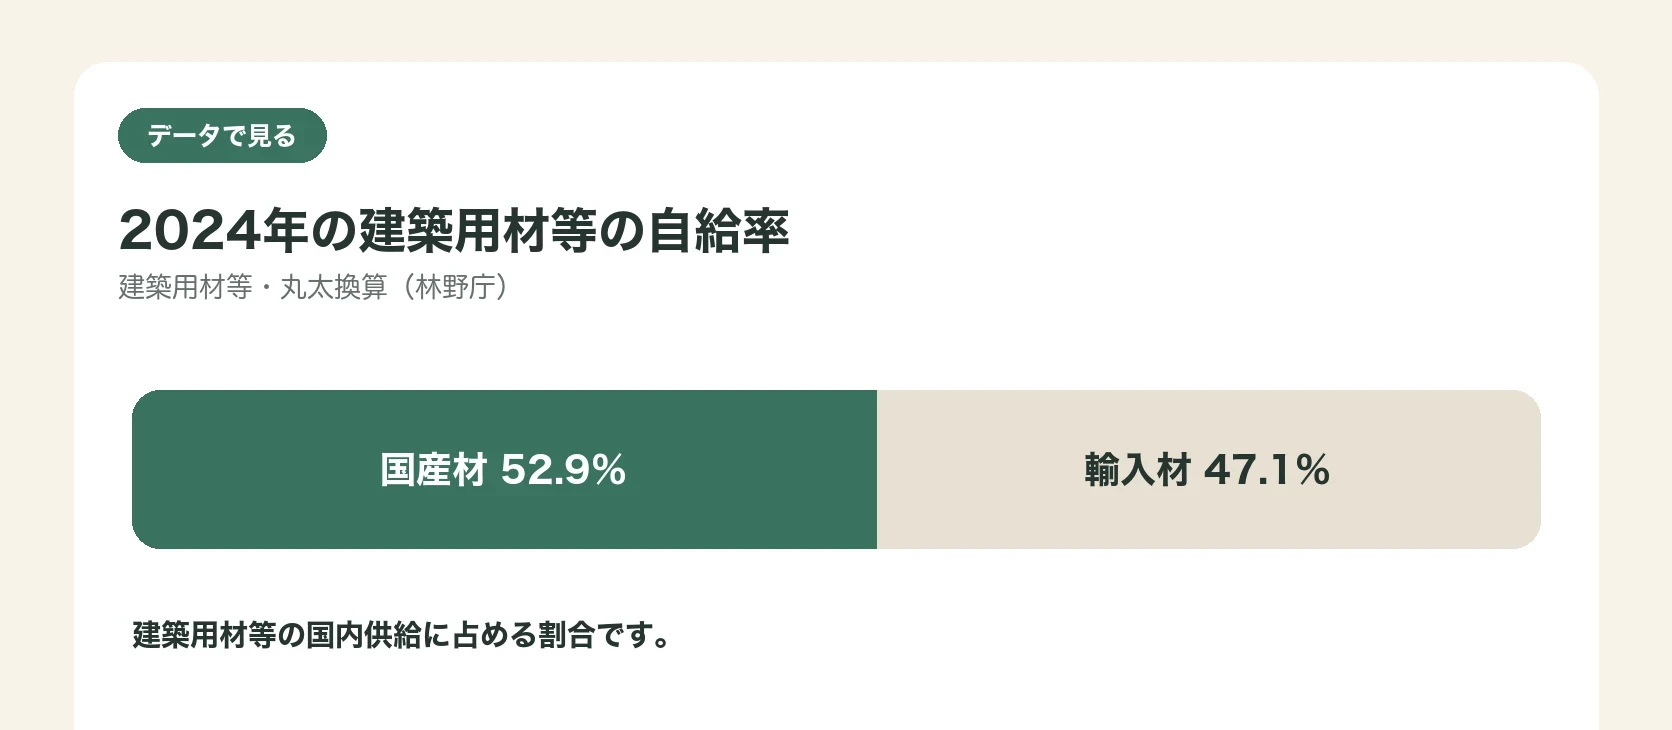
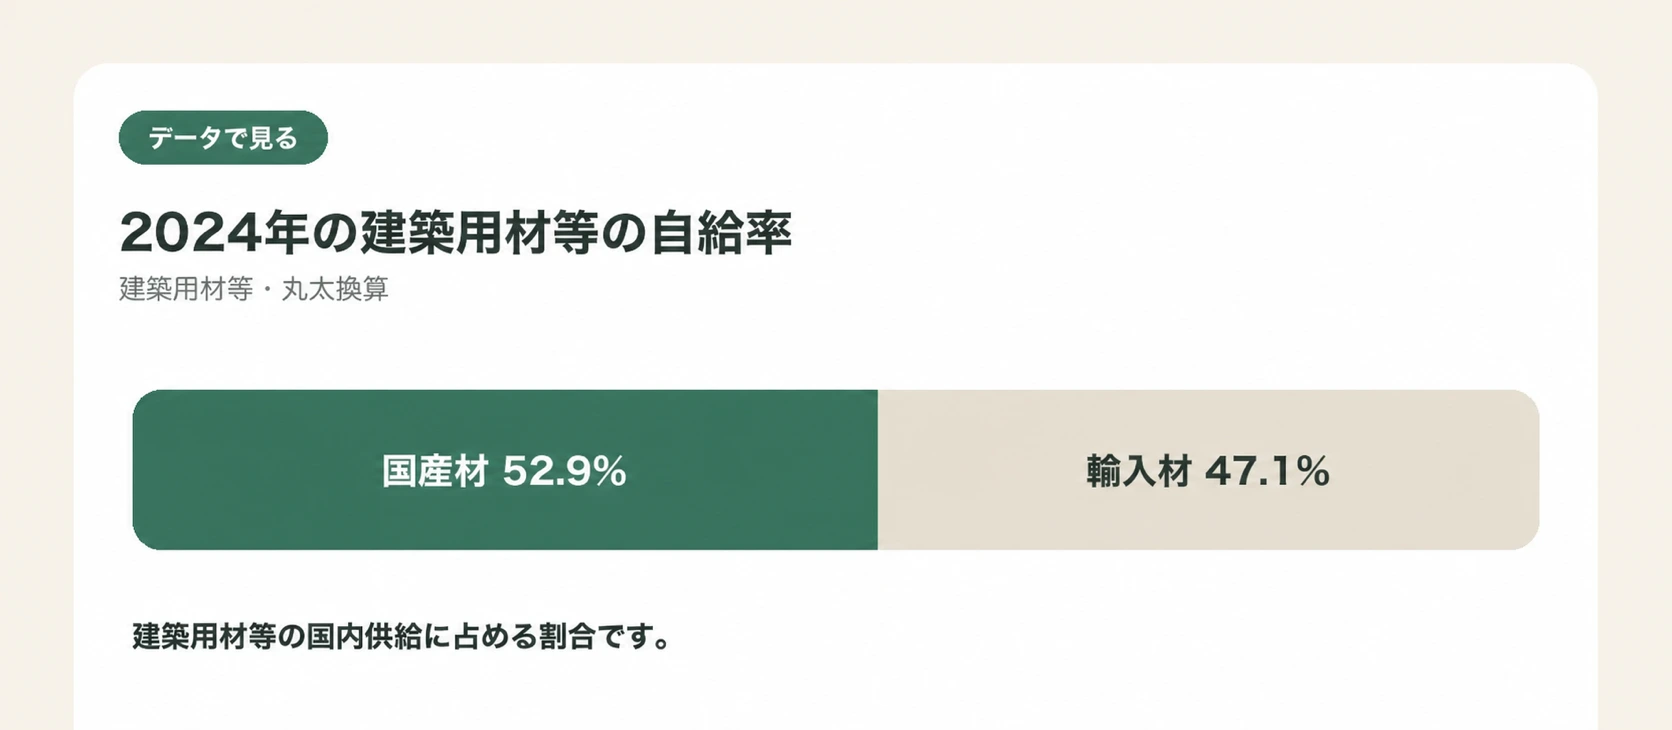
Fix remaining episode 13-18 office corrections

diff --git a/legacy/column-14.dc.html b/legacy/column-14.dc.html
@@ -377,7 +377,7 @@
 <li><strong>家の中で発生し伝わる音</strong>：足音や物を落とす音などの固体伝播音、テレビや会話などの空気伝播音。</li>
 <li><strong>設備から発生する音</strong>：エアコン、換気扇、給湯器などの稼働音。</li>
 </ul>
-<p>これらの音がどこから、どのように伝わるかを知ることは、対策を考えるうえでの出発点になります。建築音響の分野では、音の伝わり方や遮音の仕組みについて体系的に整理されており、専門書としては木村翔『建築音響と騒音防止計画』（彰国社、1977年）などが基礎的な知見をまとめています。</p>
+<p>これらの音がどこから、どのように伝わるかを知ることは、対策を考えるうえでの出発点になります。建築音響の分野では、音の伝わり方や遮音の仕組みについて体系的に整理されており、専門書としては木村翔さんの『建築音響と騒音防止計画』（彰国社、2012年）などが基礎的な知見をまとめています。</p>
 <p>ベターリビングのつくば建築試験研究センターには音響試験棟があり、壁・サッシ・ドア・換気口などの音響透過損失を測定する試験が行われています。音の悩みを考えるときは、製品名だけでなく、どの部位でどの性能を確かめるのかを見る視点も役立ちます。</p>
 </section>
 <image-slot id="ep14-body1" src="uploads/ep14_body01_sound_inventory_v2.webp" shape="rounded" radius="16" alt="家の中の音環境を見直す家族" placeholder="家の中の音環境を見直す家族" style="width:100%;aspect-ratio:16/9;margin:8px 0 36px;"></image-slot>
@@ -445,7 +445,7 @@
     <summary style="font-size:13.5px;color:oklch(0.5 0.015 90);">出典・参考資料を見る</summary>
 <ol style="font-size:12.5px;line-height:1.8;color:oklch(0.5 0.015 90);padding-left:20px;margin-top:10px;">
 <li>環境省「騒音に係る環境基準について」。<a href="https://www.env.go.jp/kijun/oto1-1.html">https://www.env.go.jp/kijun/oto1-1.html</a></li>
-<li>木村翔『建築音響と騒音防止計画』（彰国社、1977年）。建築音響の基礎、遮音構造に関する専門書。</li>
+<li>木村翔さんの『建築音響と騒音防止計画』（彰国社、2012年）。建築音響の基礎、遮音構造に関する専門書。</li>
 <li>JIS A 4706:2021「サッシ」（遮音性の等級）。規格番号は日本産業標準調査会のJIS検索で確認。<a href="https://www.jisc.go.jp/app/jis/general/GnrJISSearch.html">https://www.jisc.go.jp/app/jis/general/GnrJISSearch.html</a></li>
 <li>一般財団法人ベターリビング「つくば建築試験研究センター　試験施設案内」（音響透過損失等の試験例）。<a href="https://www.cbl.or.jp/tbtl/about/pdf/vol-20.pdf">https://www.cbl.or.jp/tbtl/about/pdf/vol-20.pdf</a></li>
 

diff --git a/legacy/column-18.dc.html b/legacy/column-18.dc.html
@@ -430,7 +430,7 @@
 <li>NPO法人日本トイレ研究所「トイレがあるところに人は集まる～熊本地震でのマンションにおけるトイレ対応～」。<a href="https://toilet-magazine.jp/disaster/4380">https://toilet-magazine.jp/disaster/4380</a></li>
 <li>内閣府（防災担当）「避難所におけるトイレの確保・管理ガイドライン」（令和6年12月改定）。<a href="https://www.bousai.go.jp/taisaku/hinanjo/pdf/2412hinanjo_toilet_guideline.pdf">https://www.bousai.go.jp/taisaku/hinanjo/pdf/2412hinanjo_toilet_guideline.pdf</a></li>
 <li>内閣府「災害時のトイレ、備えていますか？」（令和6年度 広報ぼうさい）。<a href="https://www.bousai.go.jp/kohou/kouhoubousai/r06/111/news_08.html">https://www.bousai.go.jp/kohou/kouhoubousai/r06/111/news_08.html</a></li>
-<li>加藤篤『トイレからはじめる防災ハンドブック 自宅でも避難所でも困らないための知識』（学芸出版社、2024年）。<a href="https://www.hanmoto.com/bd/isbn/9784761528782">https://www.hanmoto.com/bd/isbn/9784761528782</a></li>
+<li>加藤篤さんの『トイレからはじめる防災ハンドブック 自宅でも避難所でも困らないための知識』（学芸出版社、2024年）。<a href="https://www.hanmoto.com/bd/isbn/9784761528782">https://www.hanmoto.com/bd/isbn/9784761528782</a></li>
 </ol>
 <p>※本記事は一般的な防災情報の提供を目的としています。マンション等の集合住宅における排水管の被害確認方法など、個別の判断は管理組合や専門家にご確認ください。</p>
 </details>
@@ -448,7 +448,7 @@
     <div style="display:flex;flex-direction:column;gap:10px;font-size:14.5px;"><a href="column-01.dc.html">【第1回】家は資産か、負債か。暮らしから考える住まいの価値</a>
 <a href="column-02.dc.html">【第2回】片づかないのは、あなたのせいじゃない。収納と動線で変わる家</a>
 <a href="column-09.dc.html">【第9回】台風の前に、家族で決めておくこと。家の外・中・避難の備え</a>
-<a href="column-13.dc.html">【第13回】円安で、家はどう変わる？──住まいのコストと、これからできる備え</a></div>
+<a href="column-10.dc.html">【第10回】子どもが巣立ったあと、家はどう変える？──50代から考える夫婦の居場所</a></div>
   </section>
 
   <div style="display:flex;align-items:center;gap:16px;background:#fff;border:1px solid oklch(0.89 0.02 85);border-radius:16px;padding:22px;margin-bottom:36px;">

diff --git a/legacy/column-15.dc.html b/legacy/column-15.dc.html
@@ -439,7 +439,7 @@
 <ol style="font-size:12.5px;line-height:1.8;color:oklch(0.5 0.015 90);padding-left:20px;margin-top:10px;">
 <li>最高裁判所「令和7年 司法統計年報 家事編 第52表 遺産分割事件のうち認容・調停成立件数―遺産の内容別遺産の価額別―全家庭裁判所」（「分割をしない」を除く）。<a href="https://www.courts.go.jp/saikosai/vc-files/saikosai/toukei/toukei-pdf-16677.pdf">https://www.courts.go.jp/saikosai/vc-files/saikosai/toukei/toukei-pdf-16677.pdf</a></li>
 <li>国税庁「相続時精算課税制度」令和5年度税制改正で創設され、2024年1月1日以後の贈与から適用される基礎控除110万円の解説。<a href="https://www.nta.go.jp/taxes/shiraberu/taxanswer/sozoku/4103_sankou.htm">https://www.nta.go.jp/taxes/shiraberu/taxanswer/sozoku/4103_sankou.htm</a></li>
-<li><strong>参考文献</strong>：天野隆・天野大輔『やってはいけない「実家」の相続』（青春新書インテリジェンス、最新版2024年3月）相続専門税理士による実務的な視点。</li>
+<li><strong>参考文献</strong>：税理士法人レガシィ、天野隆さん、天野大輔さんの『【最新版】やってはいけない「実家」の相続』（青春出版社、2024年）。相続専門税理士による実務的な視点。</li>
 </ol>
 <p>※本記事は一般的な情報提供を目的としており、個別の相続税務・法務判断については税理士・司法書士・弁護士など専門家にご相談ください。</p>
 </details>
